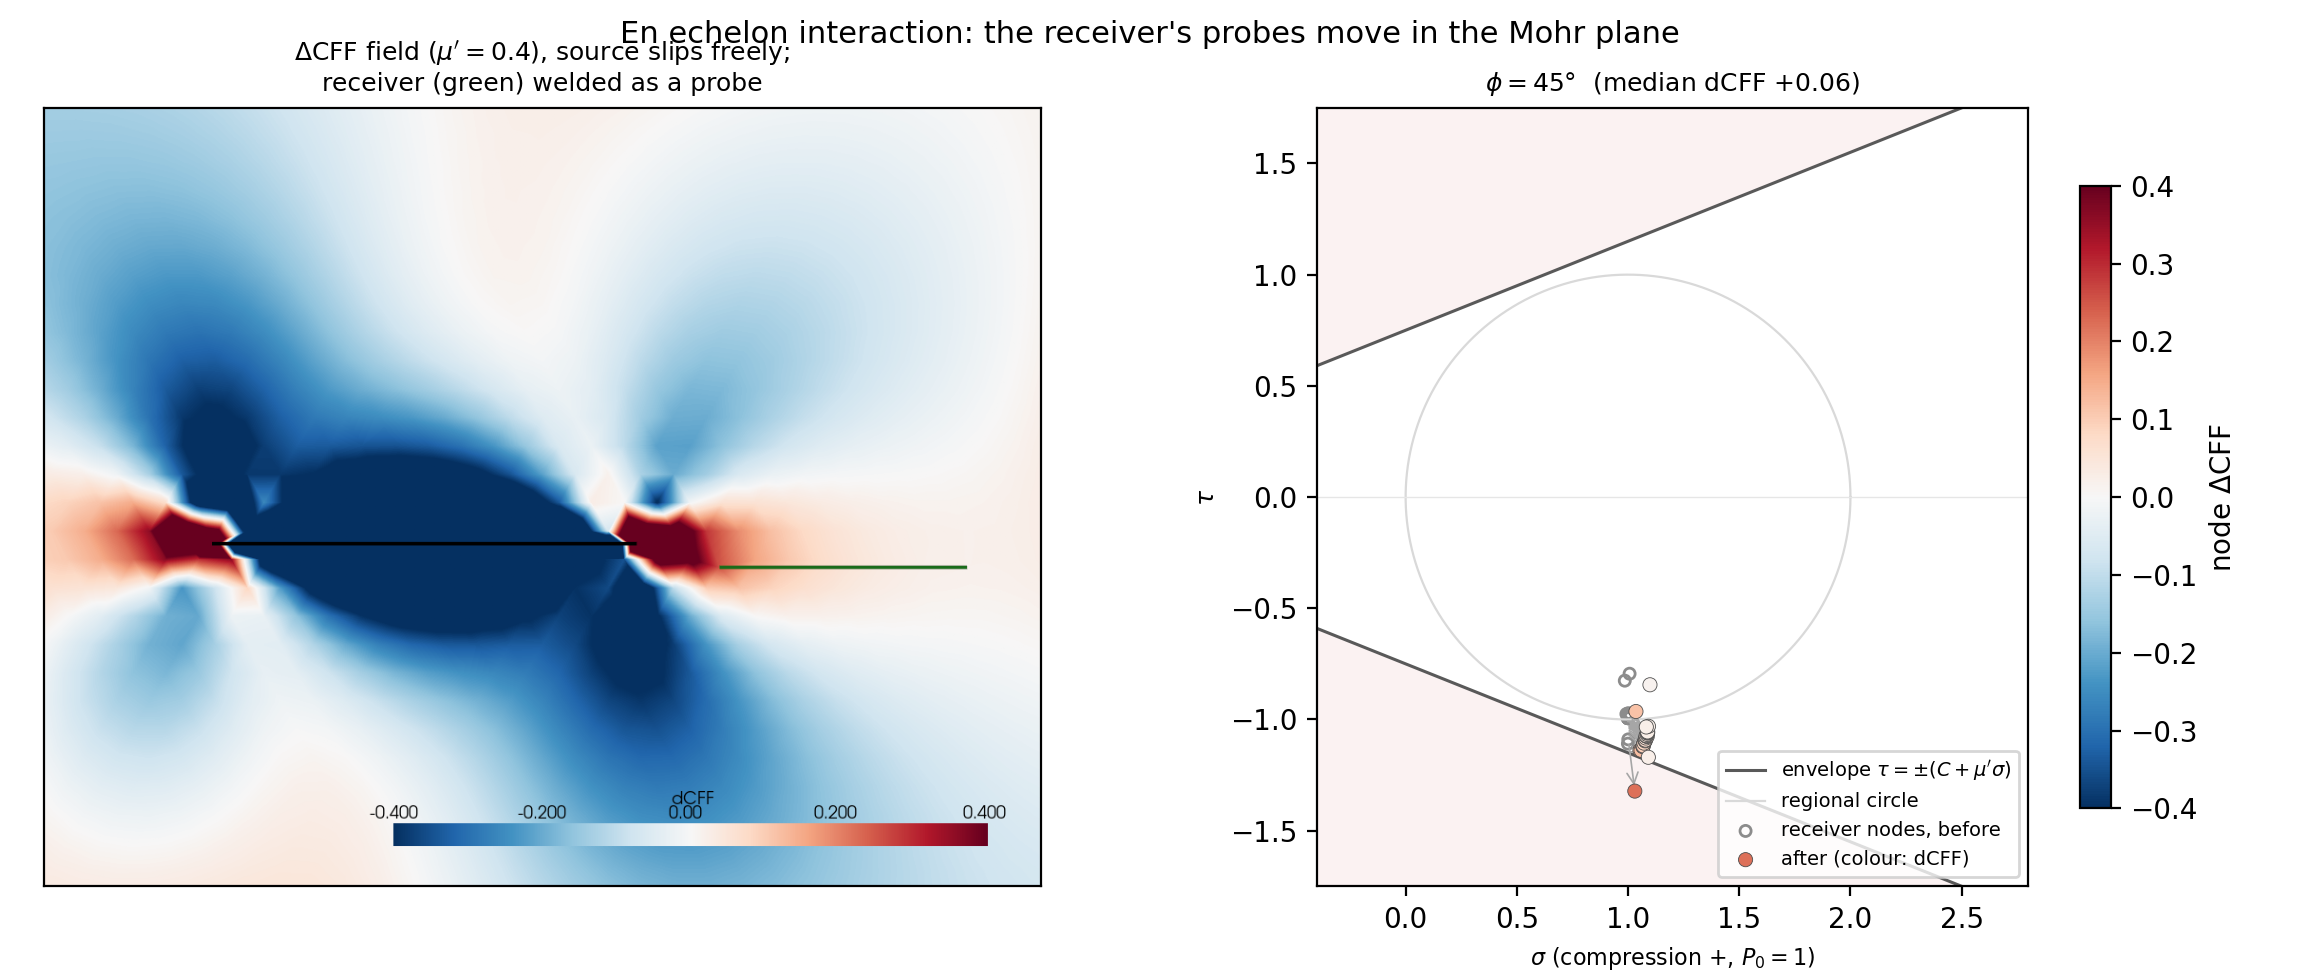
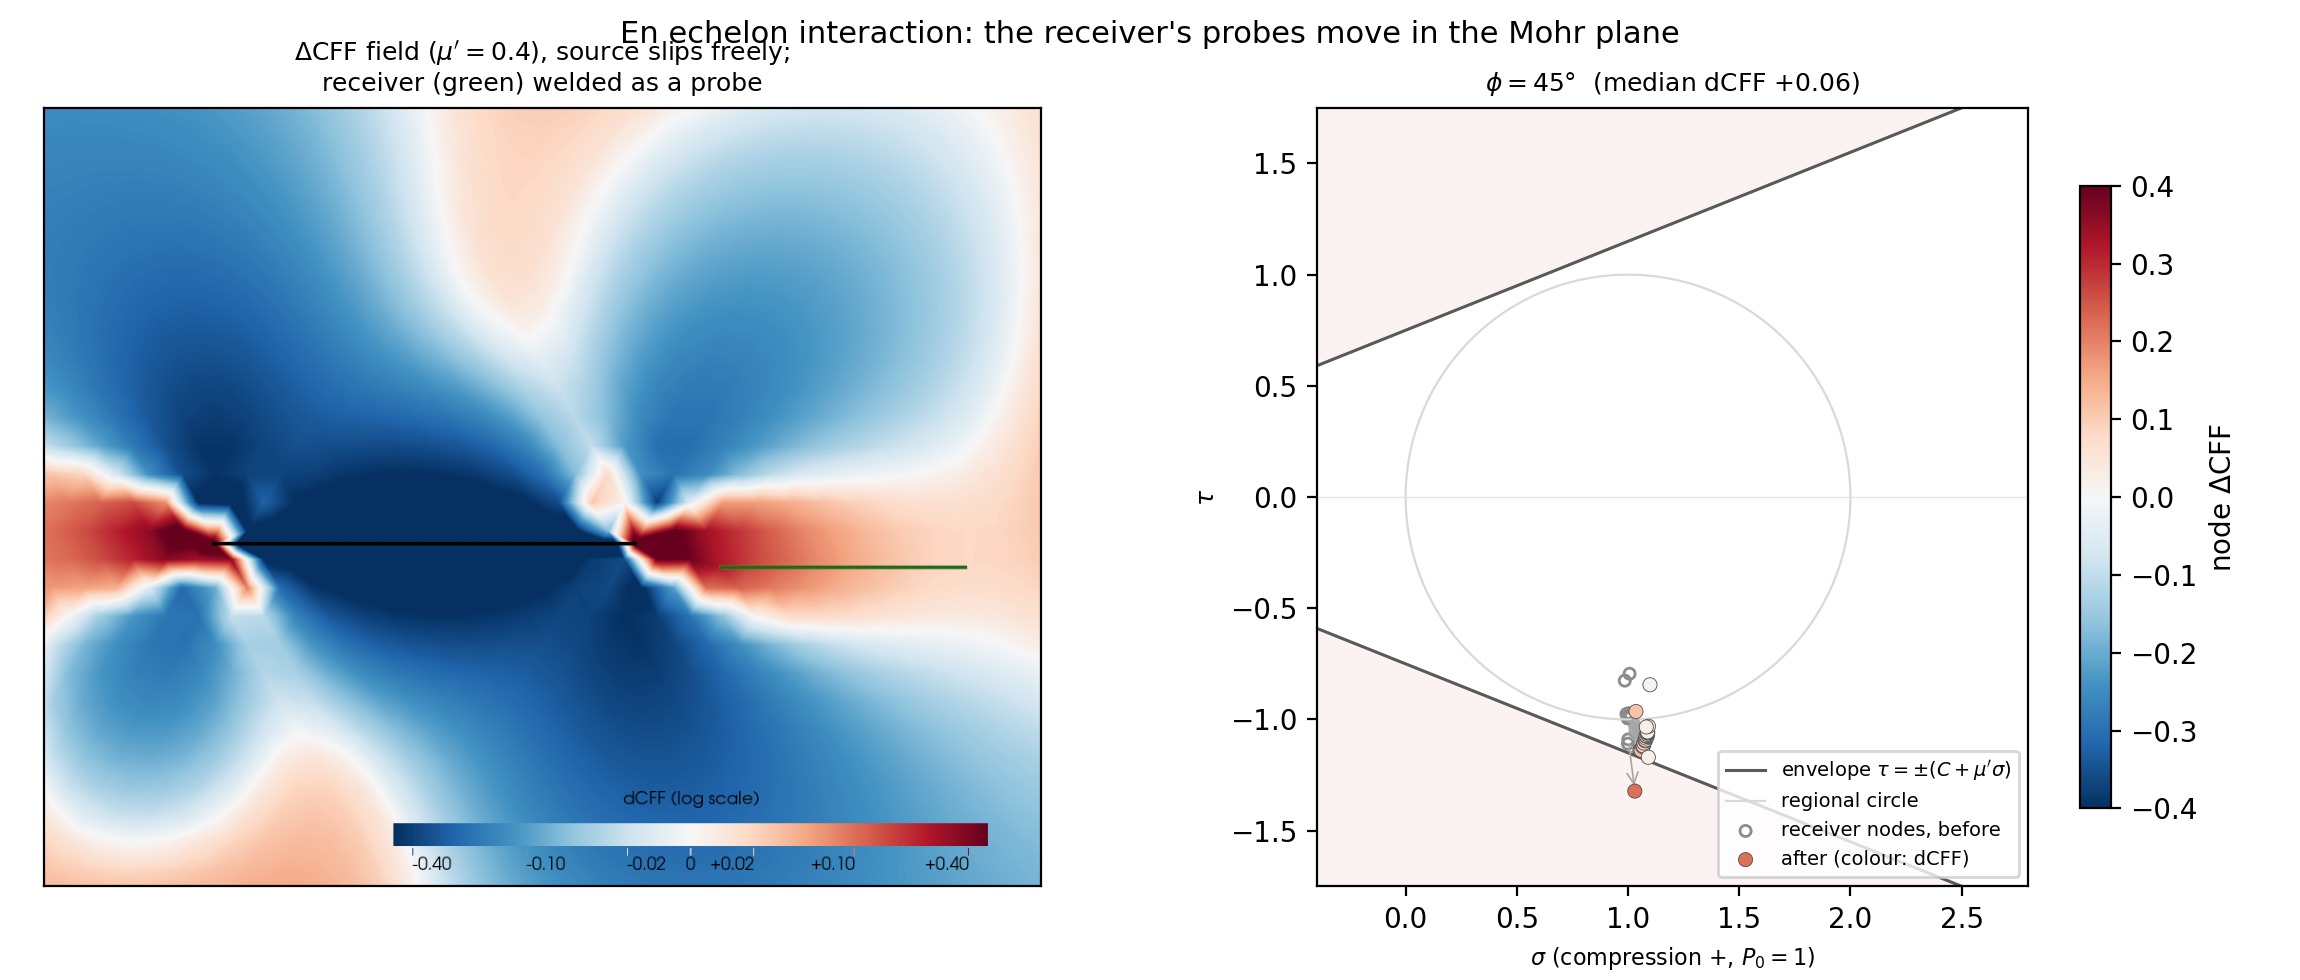
Delta CFF fields on a symmetric-log colour scale
The near-fault values saturate a linear colour map and hide the
far-field lobes — the plots read as solid blue/red blocks. The fields
now render through a signed-log transform (linear inside |dCFF| =
0.02, logarithmic beyond) with the scalar bar annotated in true dCFF
units, so the four-lobe far structure, the shadow's internal
gradation and the trunk's kink signatures are all visible while the
sign boundaries stay sharp. common.signed_log is the shared transform.

Underworld development team with AI support from Claude Code

Changed region(s): [[0.0, 0.0918, 0.463, 0.9184]]

diff --git a/docs/advanced/figures/fault-examples/interacting_faults.py b/docs/advanced/figures/fault-examples/interacting_faults.py
@@ -142,10 +142,17 @@ pvm.point_data["dcff"] = dcff_field
 pvm = pvm.delaunay_2d()
 pl = pv.Plotter(off_screen=True, window_size=(1050, 820))
 pl.set_background("white")
-lim = 0.4 * TAU0
+# symmetric-log colour scale: the near-fault values saturate a linear
+# map and hide the far-field lobes
+LT = 0.02
+pvm.point_data["dcff"] = common.signed_log(pvm.point_data["dcff"], LT)
+lim = float(common.signed_log(0.5, LT))
 pl.add_mesh(pvm, scalars="dcff", cmap="RdBu_r", clim=(-lim, lim),
             show_edges=False, lighting=False,
-            scalar_bar_args=dict(title="dCFF", color="black"))
+            annotations=common.signed_log_annotations(
+                (-0.4, -0.1, -0.02, 0.0, 0.02, 0.1, 0.4), LT),
+            scalar_bar_args=dict(title="dCFF (log scale)", color="black",
+                                 n_labels=0))
 for pts, col, w in ((SOURCE, "black", 4.0), (RECEIVER, "#1a6b1a", 4.0)):
     line = pv.Line(tuple(pts[0]) + (0.001,), tuple(pts[1]) + (0.001,))
     pl.add_mesh(line, color=col, line_width=w, lighting=False)

diff --git a/docs/advanced/figures/fault-examples/california.py b/docs/advanced/figures/fault-examples/california.py
@@ -139,10 +139,17 @@ pvm.point_data["dcff"] = dcff_field
 pvm = pvm.delaunay_2d()
 pl = pv.Plotter(off_screen=True, window_size=(950, 850))
 pl.set_background("white")
-lim = 0.4 * TAU0
+# symmetric-log colour scale: the near-fault values saturate a linear
+# map and hide the far-field lobes
+LT = 0.02
+pvm.point_data["dcff"] = common.signed_log(pvm.point_data["dcff"], LT)
+lim = float(common.signed_log(0.5, LT))
 pl.add_mesh(pvm, scalars="dcff", cmap="RdBu_r", clim=(-lim, lim),
             show_edges=False, lighting=False,
-            scalar_bar_args=dict(title="dCFF", color="black"))
+            annotations=common.signed_log_annotations(
+                (-0.4, -0.1, -0.02, 0.0, 0.02, 0.1, 0.4), LT),
+            scalar_bar_args=dict(title="dCFF (log scale)", color="black",
+                                 n_labels=0))
 
 
 def polyline(pts):

diff --git a/docs/advanced/figures/fault-examples/common.py b/docs/advanced/figures/fault-examples/common.py
@@ -206,3 +206,17 @@ def far_field_anchor(points, dcff, segments, cut=0.3):
         far &= np.linalg.norm(p - (a + s[:, None] * t), axis=1) > cut
     c = float(np.median(np.asarray(dcff)[far]))
     return np.asarray(dcff) - c, c
+
+
+def signed_log(x, linthresh=0.02):
+    """Symmetric log transform for signed stress-change fields: linear
+    inside |x| < linthresh, logarithmic beyond — the near-fault values
+    saturate any linear colour scale and hide the far-field lobes."""
+    x = np.asarray(x, dtype=float)
+    return np.sign(x) * np.log10(1.0 + np.abs(x) / linthresh)
+
+
+def signed_log_annotations(values, linthresh=0.02):
+    """Scalar-bar tick positions/labels in transformed units."""
+    return {float(np.sign(v) * np.log10(1.0 + abs(v) / linthresh)):
+            f"{v:+.2f}" if v else "0" for v in values}
